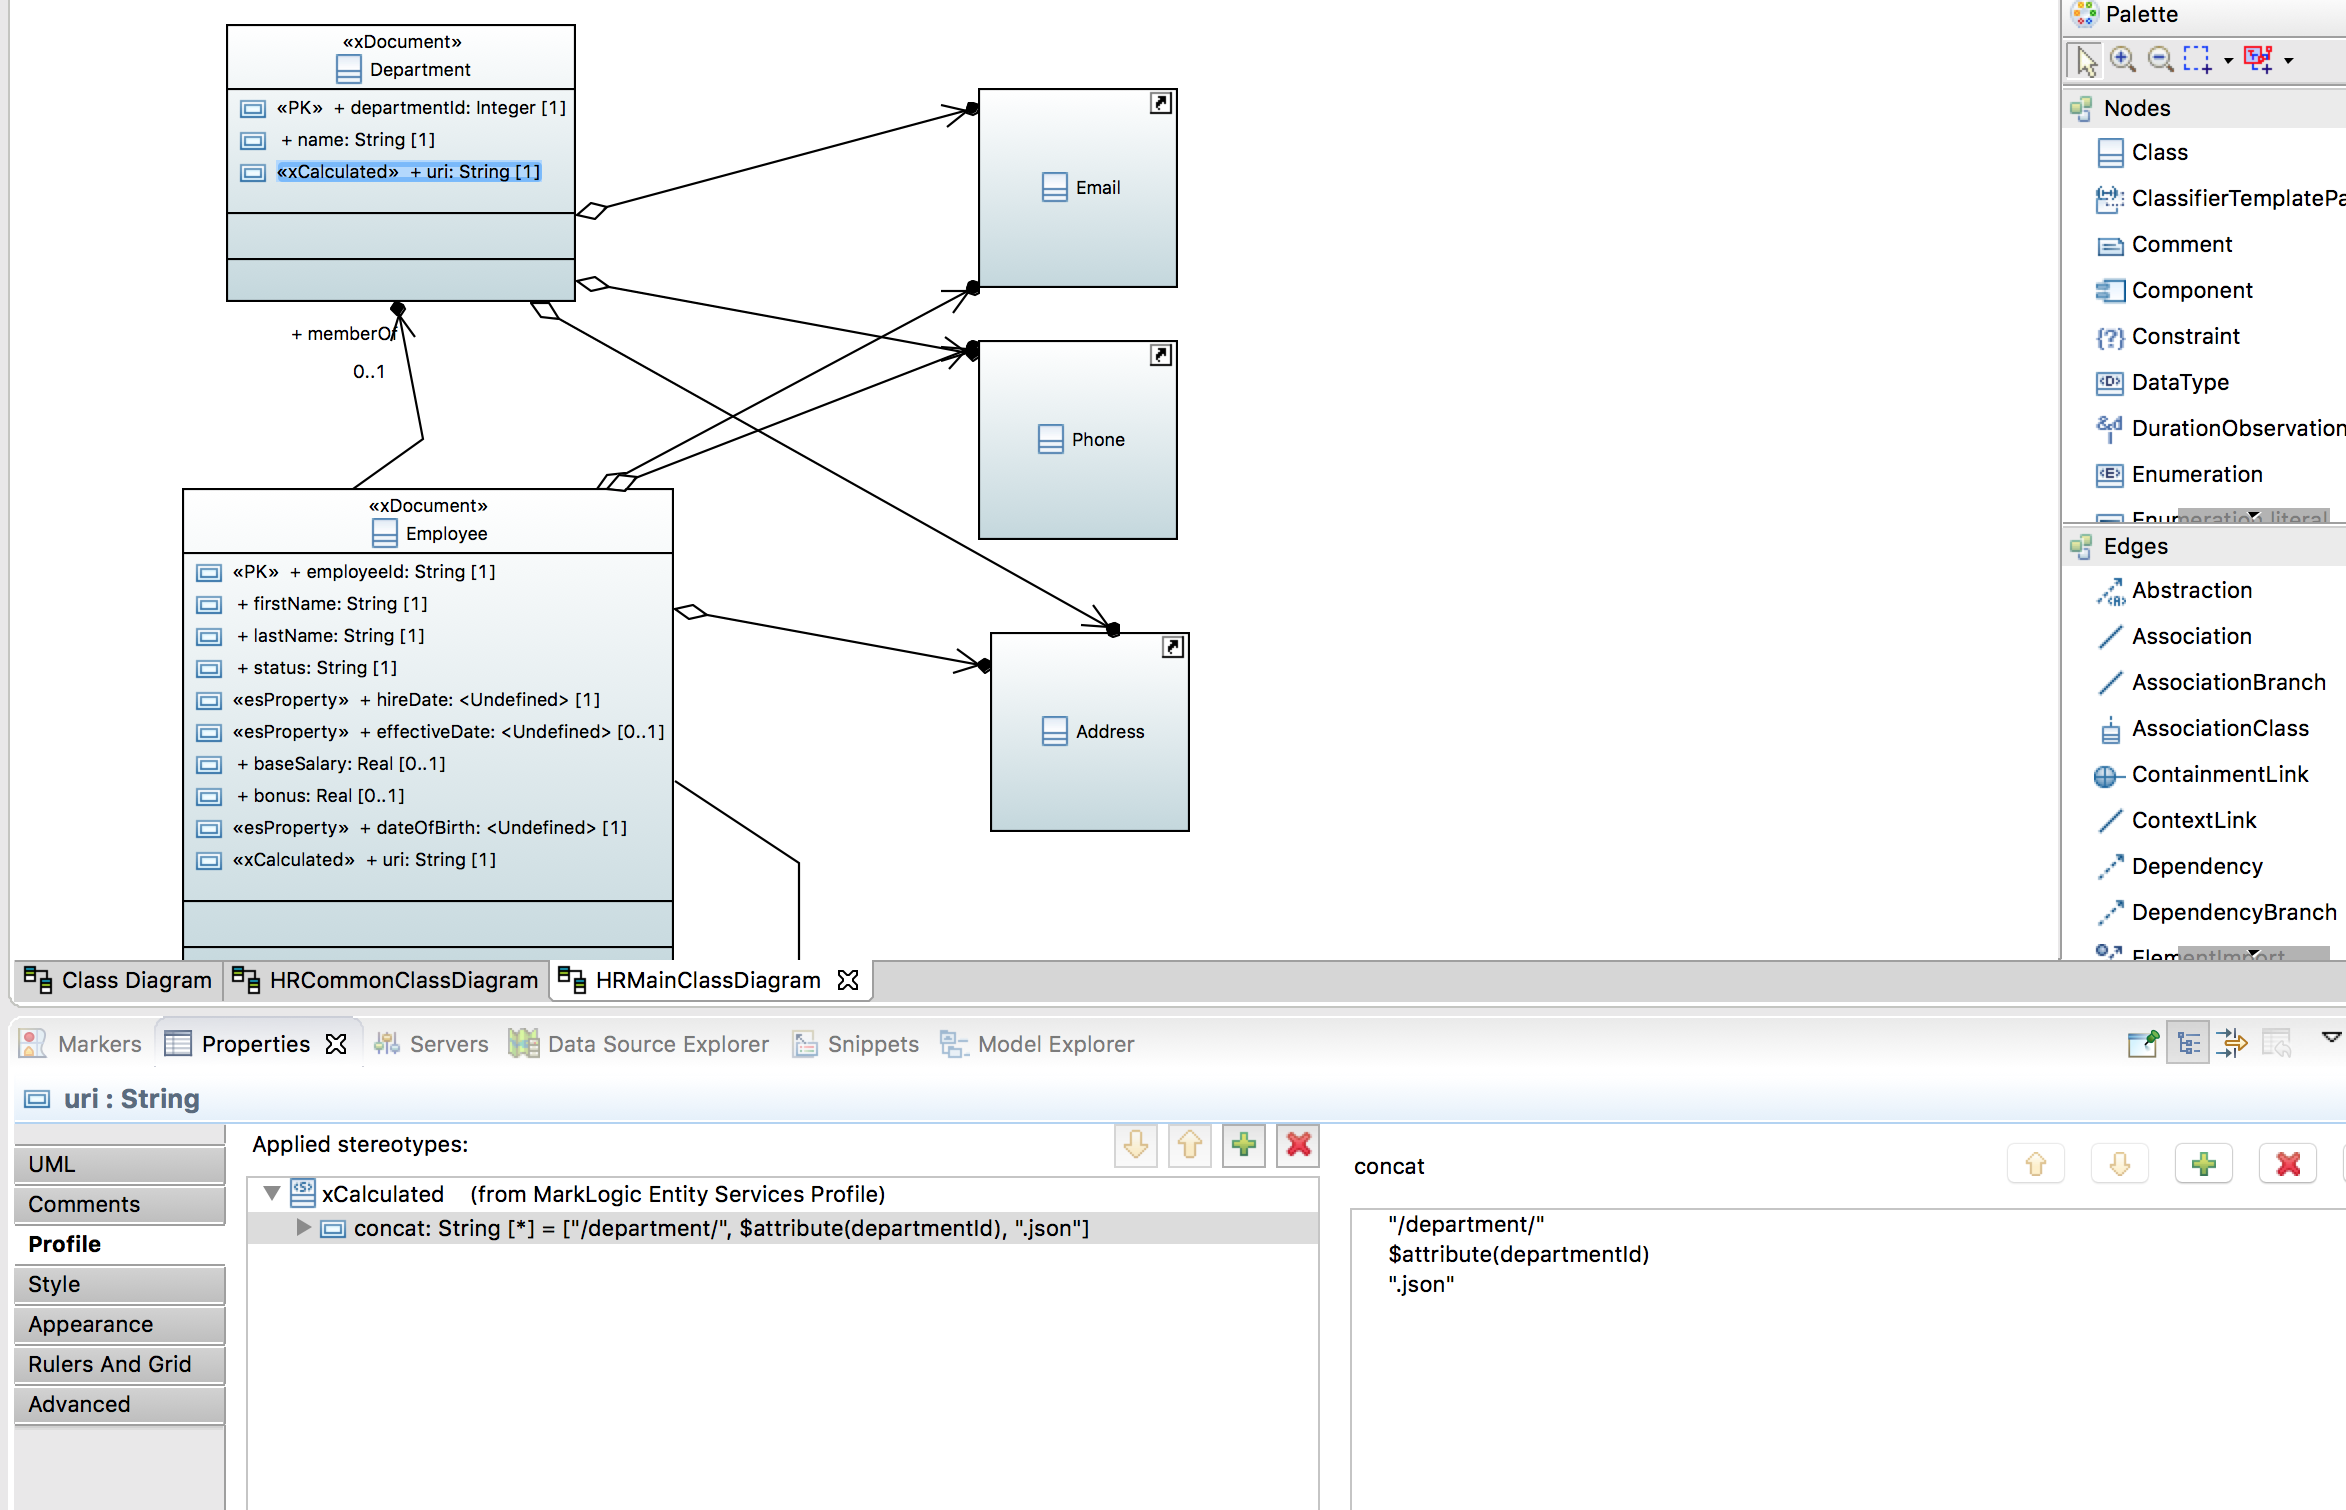
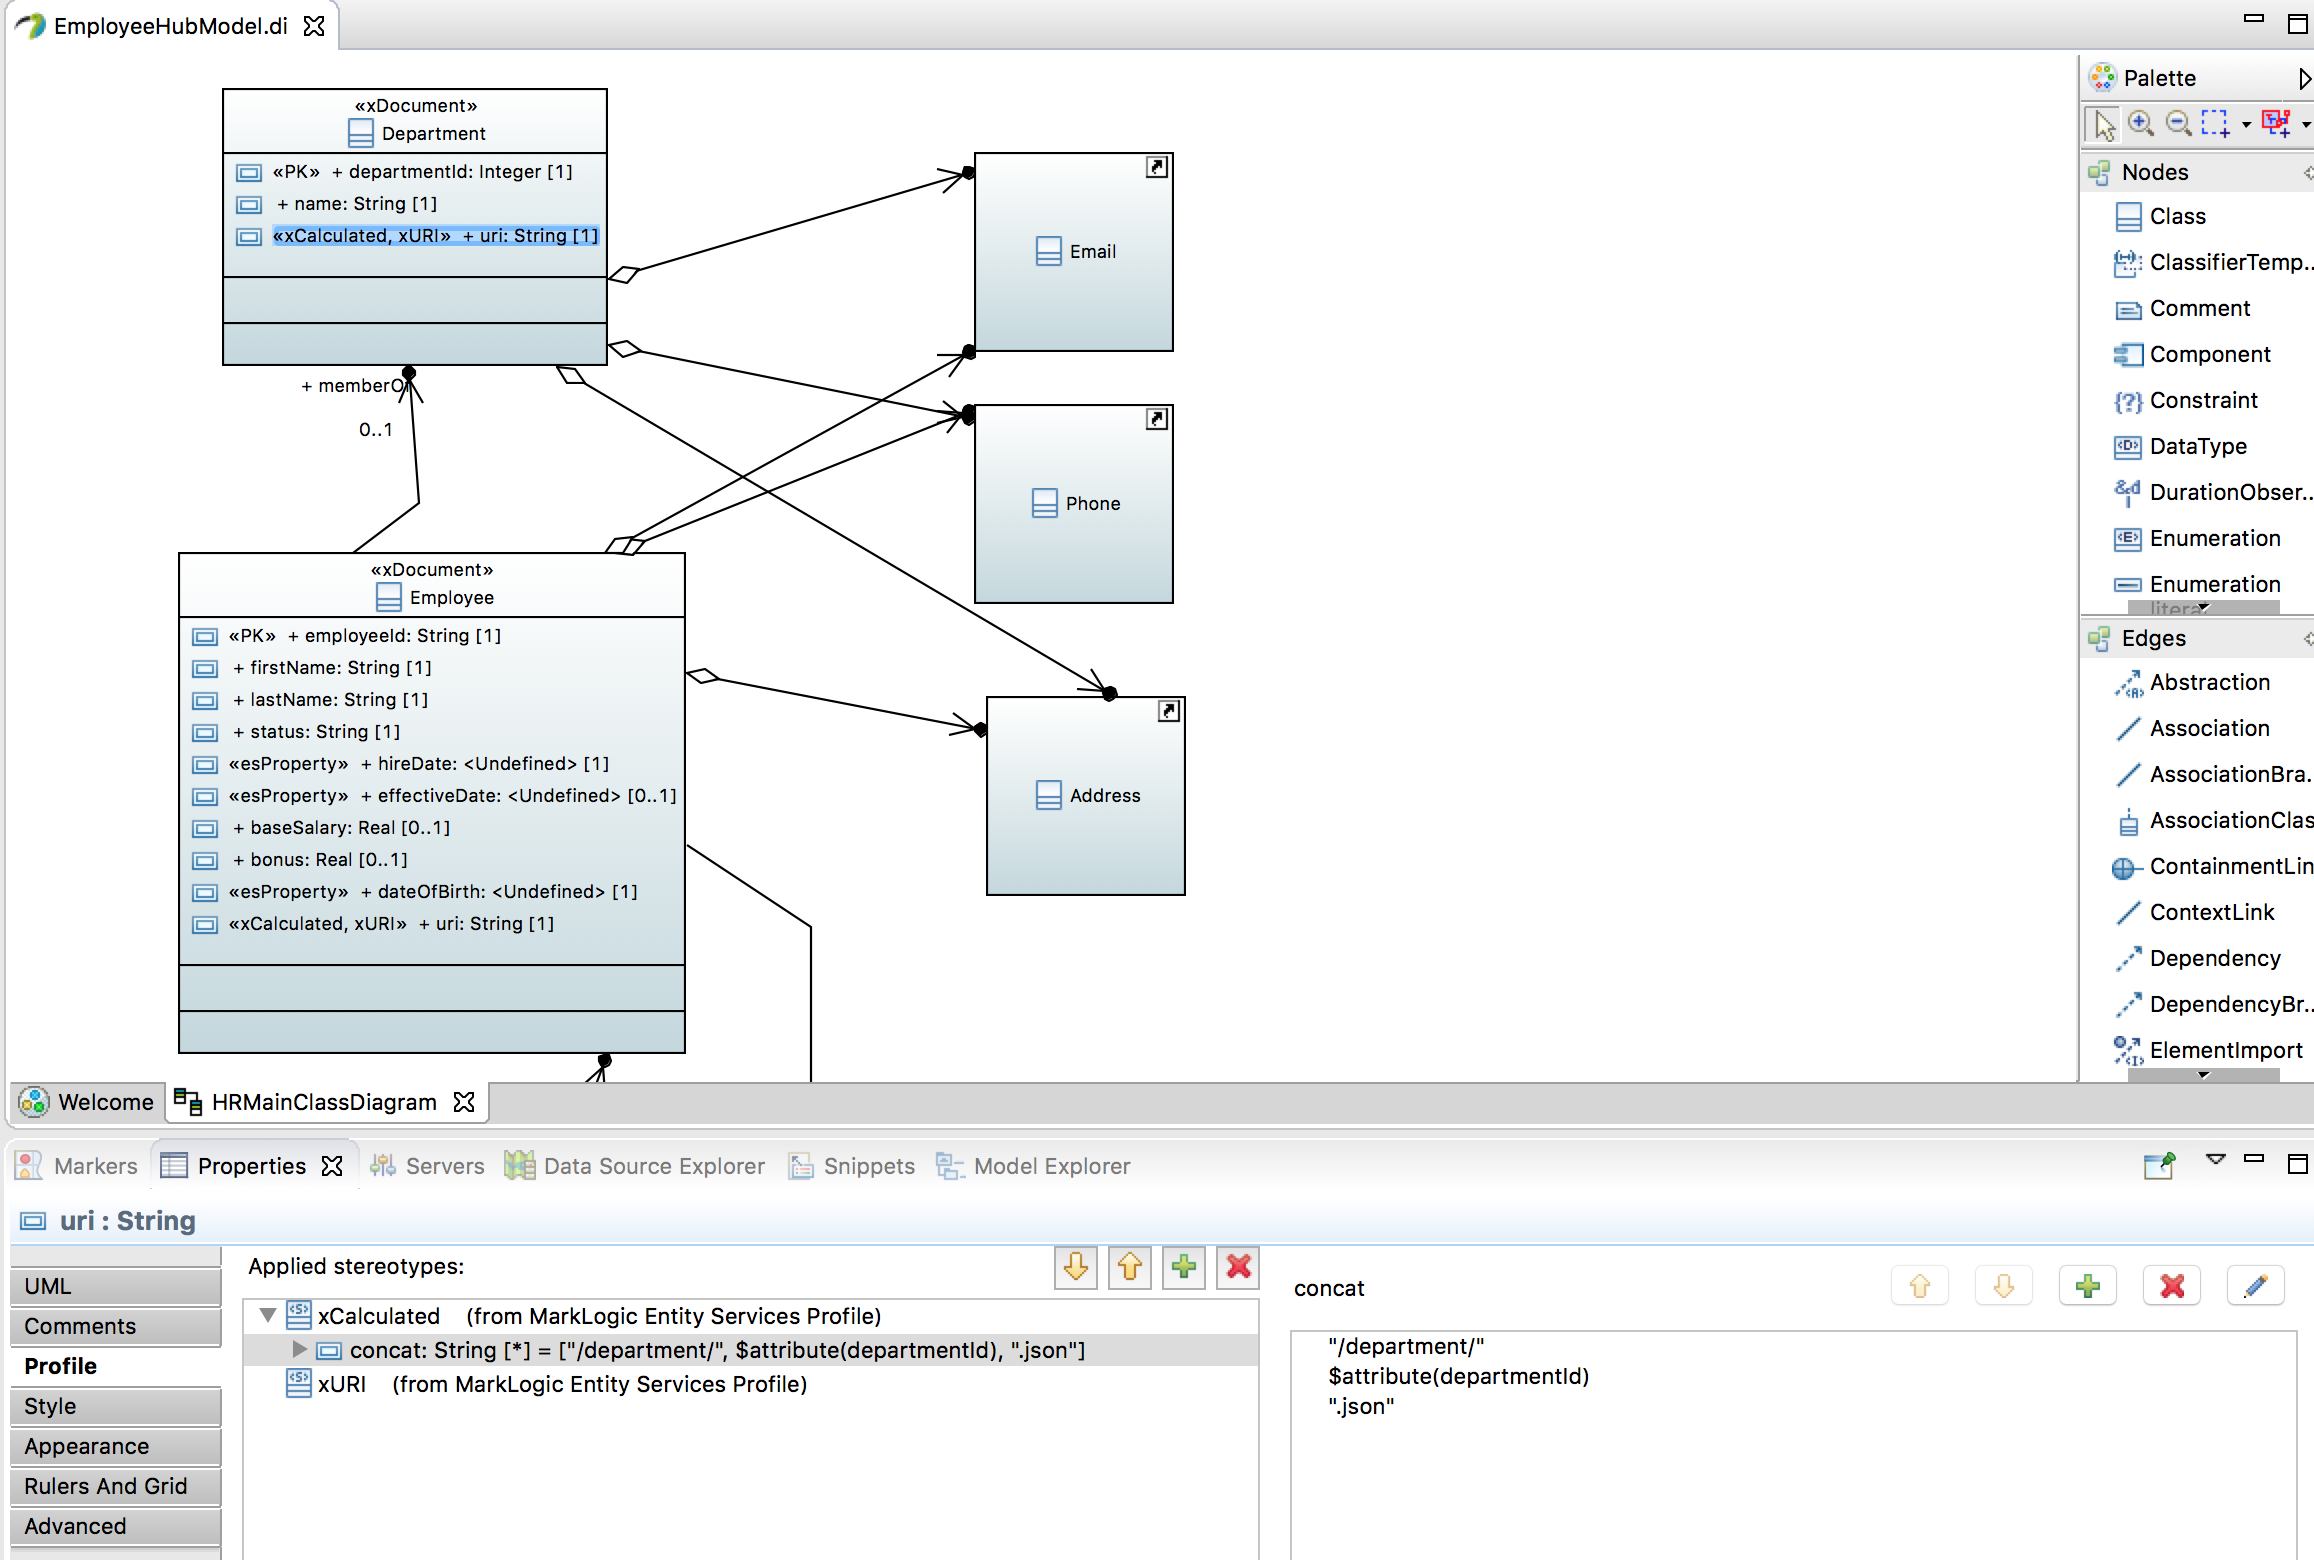
tutorial

Changed region(s): [[0.0, 0.0, 1.0, 0.996]]

diff --git a/uml2es/tutorials/employeeCradleToGrave.md b/uml2es/tutorials/employeeCradleToGrave.md
@@ -277,14 +277,14 @@ Next, stereotype several of the attributes by first selecting the atttibute in t
 - Give Department.departmentId the stereotype PK.
 - Give Employee.employeeId the stereotype PK.
 - Give Employee.hireDate, Employee.effectiveDate, and Employee.dateOfBirth the stereotype esProperty with mlType "date".
-- Give Department.uri the stereotype xCalculated. Its tagged value concat consists of three strings with the quotes included:
+- Give Department.uri the stereotypes xCalculated and xURI. For xCalculated, its tagged value concat consists of three strings with the quotes included:
 	* "/department/"
 	* $attribute(departmentId)
 	* ".json"
 
 ![concat](images/emp_setup34.png)
 
-- Give Employee.uri the stereotype xCalculated. Its tagged value concat consists of three strings with the quotes included:
+- Give Employee.uri the stereotypes xCalculated and xURI. For xCalculated, its tagged value concat consists of three strings with the quotes included:
 	* "/employee/"
 	* $attribute(employeeId)
 	* ".json"
